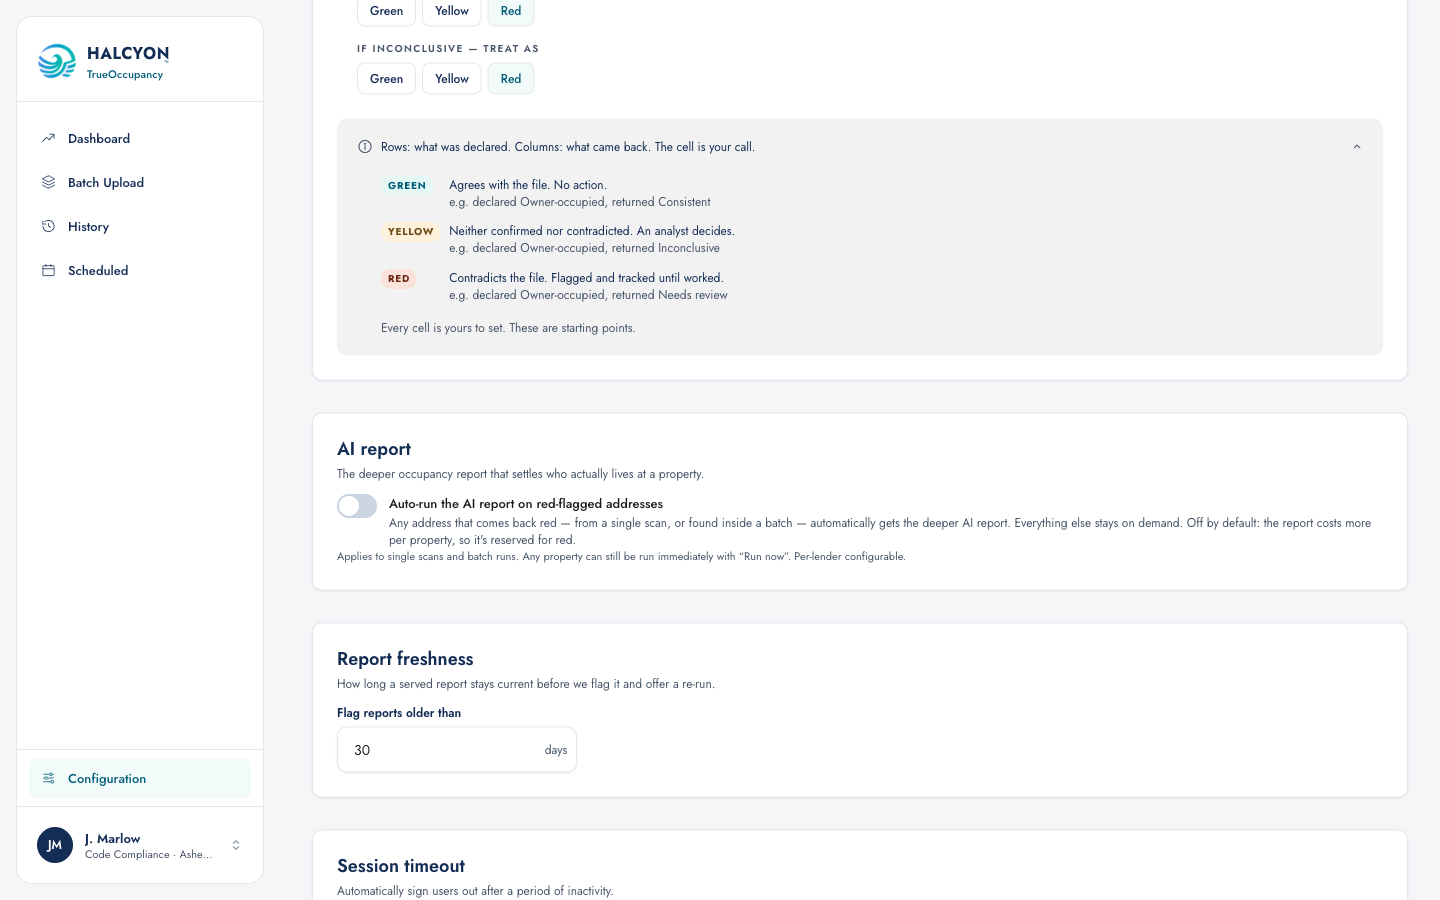
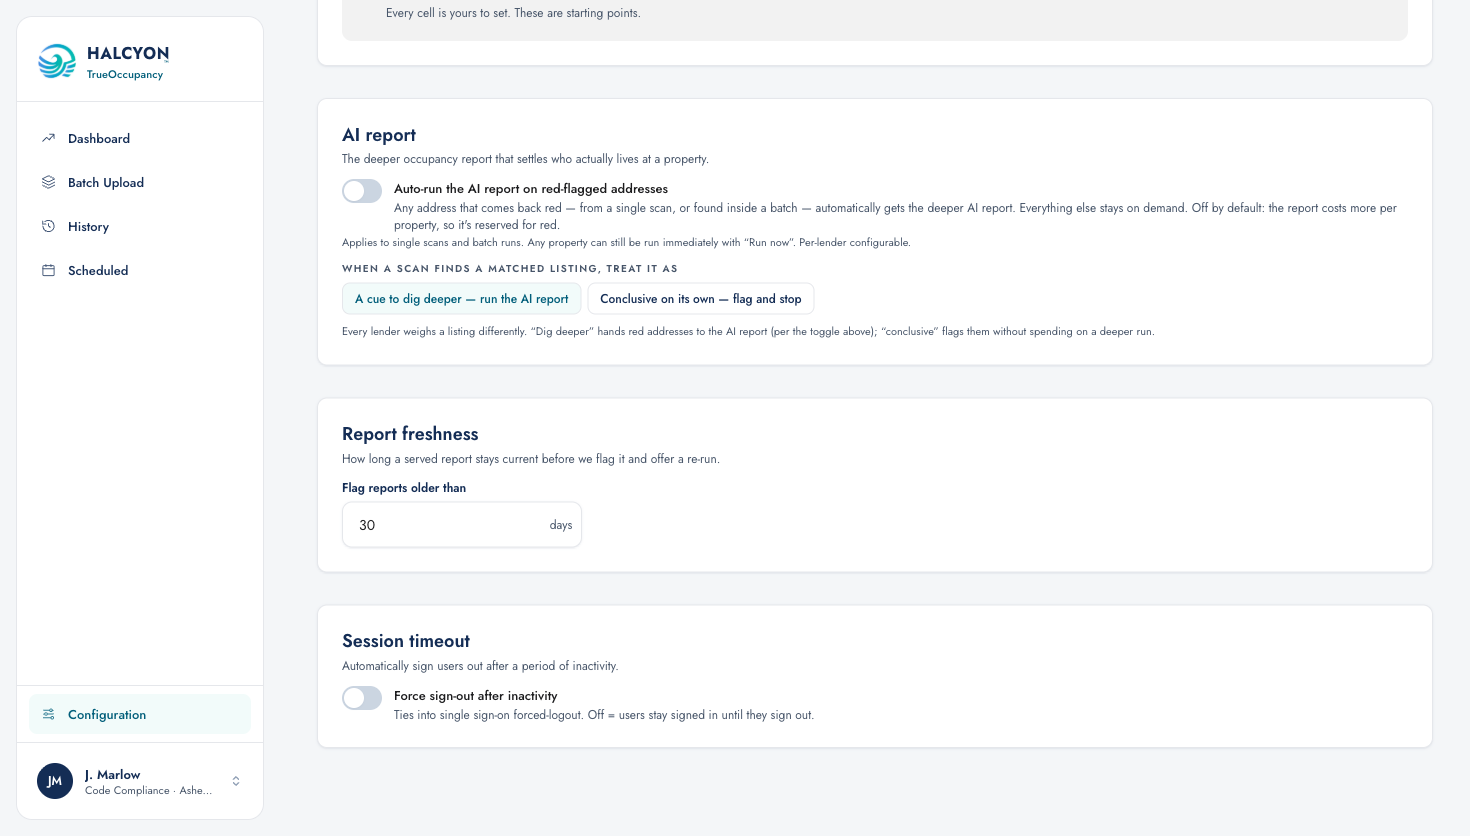
feat(prototype): AI-report trigger config, schedule-run AI status, list AI marker (Trello #45, #49, #50)
- ScanConfigScreen: per-lender "found listing → dig deeper vs conclusive"
  ChipRow under the AI-report toggle (#45)
- ScheduleDetailScreen: "AI report" column on run rows — Done/Failed/Running
  pills, nothing when a run never triggered AI (#49)
- HomeScreen + HistoryScreen: quiet "AI" Pill beside the verdict/status pill
  on rows whose latest run has a stored report; informational only (#50)
- AppState seeds: aiStatus on the automation batch runs, hasAIReport on two
  singles + one batch, so all three states are demonstrable

diff --git a/src/state/AppState.tsx b/src/state/AppState.tsx
@@ -405,7 +405,7 @@ const SEED_BATCH_LENDER_ROWS: LiveBatchRow[] = Array.from({ length: 42 }, (_, i)
 });
 
 const SEED_HISTORY: HistoryEntry[] = [
-  { id: 'h01', kind: 'single', address: '1428 Maplewood Drive, Asheville, NC 28804',  scenario: 'high',   platforms: 3, scannedAt: seedTime('8min'),  reference: 'LOAN-2026-0042', intent: 'owner-occupied' },
+  { id: 'h01', kind: 'single', address: '1428 Maplewood Drive, Asheville, NC 28804',  scenario: 'high',   platforms: 3, scannedAt: seedTime('8min'),  reference: 'LOAN-2026-0042', intent: 'owner-occupied', hasAIReport: true },
   // Prior re-scans of the SAME two addresses. These do NOT show as extra rows in
   // History (it dedups to the latest); they populate the "Run history" section
   // on the property's detail view — demonstrating the collapse. Mixed triggers
@@ -420,10 +420,10 @@ const SEED_HISTORY: HistoryEntry[] = [
   // the danger flag wherever they appear outside the Red-addresses tab.
   { id: 'hr1', kind: 'single', address: '412 Cumberland Ave, Asheville, NC 28801',    scenario: 'high',   platforms: 4, scannedAt: seedTime('1h'),    reference: 'LOAN-2026-0071', intent: 'owner-occupied' },
   { id: 'hr1b', kind: 'single', address: '412 Cumberland Ave, Asheville, NC 28801',   scenario: 'medium', platforms: 3, scannedAt: seedTime('60d'),   reference: 'LOAN-2026-0071', intent: 'owner-occupied' },
-  { id: 'hr2', kind: 'single', address: '7 Beaucatcher Rd, Asheville, NC 28805',      scenario: 'high',   platforms: 3, scannedAt: seedTime('6h'),    reference: 'LOAN-2026-0058', intent: 'rental' },
+  { id: 'hr2', kind: 'single', address: '7 Beaucatcher Rd, Asheville, NC 28805',      scenario: 'high',   platforms: 3, scannedAt: seedTime('6h'),    reference: 'LOAN-2026-0058', intent: 'rental', hasAIReport: true },
   { id: 'hr3', kind: 'single', address: '153 Merrimon Ave, Asheville, NC 28804',      scenario: 'high',   platforms: 2, scannedAt: seedTime('2d'), intent: 'owner-occupied' },
   { id: 'hb0', kind: 'batch',  filename: 'asheville-q2-2026.csv', total: 6,  flagged: 0, warn: 0, clean: 0, failed: 6, status: 'failed',   scannedAt: seedTime('47d'), rows: SEED_BATCH_FAILED_ROWS },
-  { id: 'hb1', kind: 'batch',  filename: 'asheville-q1-2026.csv', total: 24, flagged: 6, warn: 6, clean: 12, failed: 0, status: 'complete', scannedAt: seedTime('2h'), rows: SEED_BATCH_Q1_ROWS, title: 'Asheville Spring Sweep', description: 'Quarterly compliance scan for the spring 2026 lender portfolio.', defaultIntent: 'owner-occupied', trigger: 'automation' },
+  { id: 'hb1', kind: 'batch',  filename: 'asheville-q1-2026.csv', total: 24, flagged: 6, warn: 6, clean: 12, failed: 0, status: 'complete', scannedAt: seedTime('2h'), rows: SEED_BATCH_Q1_ROWS, title: 'Asheville Spring Sweep', description: 'Quarterly compliance scan for the spring 2026 lender portfolio.', defaultIntent: 'owner-occupied', trigger: 'automation', aiStatus: 'done', hasAIReport: true },
   // A prior run of the SAME CSV — collapses in the History tab (one row), and
   // surfaces in the batch's "Run history" section on its detail view. This is
   // the original upload (manual); everything after it is the automation.
@@ -453,7 +453,7 @@ const SEED_HISTORY: HistoryEntry[] = [
   // these ran unattended, so they carry trigger: 'automation'.
   { id: 'hr01a', kind: 'single', address: '1428 Maplewood Drive, Asheville, NC 28804', scenario: 'high',   platforms: 3, scannedAt: seedTime('6mo'), trigger: 'automation' },
   { id: 'hr01b', kind: 'single', address: '1428 Maplewood Drive, Asheville, NC 28804', scenario: 'medium', platforms: 2, scannedAt: seedTime('1y'),  trigger: 'automation' },
-  { id: 'hr02a', kind: 'batch',  filename: 'asheville-q4-2025.csv', total: 22, flagged: 4, warn: 5, clean: 13, failed: 0, status: 'complete', scannedAt: seedTime('3mo'), rows: SEED_BATCH_Q1_ROWS.slice(0, 22), defaultIntent: 'owner-occupied', trigger: 'automation' },
+  { id: 'hr02a', kind: 'batch',  filename: 'asheville-q4-2025.csv', total: 22, flagged: 4, warn: 5, clean: 13, failed: 0, status: 'complete', scannedAt: seedTime('3mo'), rows: SEED_BATCH_Q1_ROWS.slice(0, 22), defaultIntent: 'owner-occupied', trigger: 'automation', aiStatus: 'failed' },
   { id: 'hr03a', kind: 'single', address: '67 Charlotte Hwy, Asheville, NC 28803',     scenario: 'high',   platforms: 2, scannedAt: seedTime('1y'),  trigger: 'automation' },
   { id: 'hr04a', kind: 'single', address: '145 Westchester Dr, Asheville, NC 28803',   scenario: 'medium', platforms: 1, scannedAt: seedTime('4mo'), trigger: 'automation' },
 ];

diff --git a/src/pages/ScanConfigScreen.tsx b/src/pages/ScanConfigScreen.tsx
@@ -301,6 +301,9 @@ function ScanConfigScreen({
   // AI report — auto-run on red-flagged addresses. Opt-in (off by default)
   // because the deeper report costs more per property, so it's reserved for red.
   const [aiOnRed, setAiOnRed] = React.useState(false);
+  // Per-lender trigger (Trello #45): what a found listing means. "Every
+  // mortgage lender is a unique and beautiful snowflake" — don't hardcode.
+  const [listingMeans, setListingMeans] = React.useState<'dig-deeper' | 'stop'>('dig-deeper');
   // Session timeout — a toggle plus, when on, the idle window as a number + unit.
   const [timeoutOn, setTimeoutOn] = React.useState(seed.sessionTimeout?.enabled ?? false);
   const [timeoutValue, setTimeoutValue] = React.useState(seed.sessionTimeout?.value ?? 30);
@@ -536,6 +539,23 @@ function ScanConfigScreen({
         <p className="font-sans text-micro text-ink-3 leading-relaxed m-0">
           Applies to single scans and batch runs. Any property can still be run immediately with “Run now”. Per-lender configurable.
         </p>
+
+        {/* Per-lender trigger (Trello #45): whether a found listing is treated
+            as conclusive on its own, or as the cue to investigate deeper. */}
+        <div className="mt-stack-md">
+          <ChipRow
+            label="When a scan finds a matched listing, treat it as"
+            value={listingMeans}
+            onChange={(v: string) => setListingMeans(v as 'dig-deeper' | 'stop')}
+            options={[
+              { value: 'dig-deeper', label: 'A cue to dig deeper — run the AI report' },
+              { value: 'stop', label: 'Conclusive on its own — flag and stop' },
+            ]}
+          />
+          <p className="font-sans text-micro text-ink-3 leading-relaxed m-0 mt-stack-tight">
+            Every lender weighs a listing differently. “Dig deeper” hands red addresses to the AI report (per the toggle above); “conclusive” flags them without spending on a deeper run.
+          </p>
+        </div>
       </ConfigSection>
 
       {/* ---- 4. Recurring scans — REMOVED ----

diff --git a/src/pages/HistoryScreen.tsx b/src/pages/HistoryScreen.tsx
@@ -445,7 +445,18 @@ const HISTORY_SINGLE_COLUMNS: any[] = [
     cell: (r: any) => {
       const risk = SCENARIOS[r.scenario].risk;
       const m = occMatchForRisk(r.intent, risk);
-      return m ? <Pill variant={m.tone as any}>{m.label}</Pill> : <span className="text-ink-4">—</span>;
+      return (
+        <span className="inline-flex items-center gap-1.5">
+          {m ? <Pill variant={m.tone as any}>{m.label}</Pill> : <span className="text-ink-4">—</span>}
+          {/* Quiet "we already investigated this" marker (Trello #50) —
+              informational only, never changes verdict, tone or counts. */}
+          {r.hasAIReport && (
+            <span title={`AI report · run ${formatScannedDate(r.scannedAt)}`}>
+              <Pill size="sm">AI</Pill>
+            </span>
+          )}
+        </span>
+      );
     },
   },
   {
@@ -552,7 +563,16 @@ const HISTORY_BATCH_COLUMNS: any[] = [
     hideBelow: 'sm' as const,
     cell: (r: any) => {
       const status: 'complete' | 'partial' | 'failed' = r.status ?? 'complete';
-      return <Pill variant={BATCH_STATUS_VARIANT[status]}>{BATCH_STATUS_LABEL[status]}</Pill>;
+      return (
+        <span className="inline-flex items-center gap-1.5">
+          <Pill variant={BATCH_STATUS_VARIANT[status]}>{BATCH_STATUS_LABEL[status]}</Pill>
+          {r.hasAIReport && (
+            <span title={`AI reports · run ${formatScannedDate(r.scannedAt)}`}>
+              <Pill size="sm">AI</Pill>
+            </span>
+          )}
+        </span>
+      );
     },
   },
   {

diff --git a/src/pages/ScheduleDetailScreen.tsx b/src/pages/ScheduleDetailScreen.tsx
@@ -177,6 +177,23 @@ function ScheduleDetailScreen() {
       },
     },
     {
+      // AI-report status for runs that auto-triggered it (Trello #49) —
+      // same vocabulary as the batch results table. Runs that never
+      // triggered AI render nothing: absence stays legible, no dash noise.
+      key: 'ai',
+      label: 'AI report',
+      width: '110px',
+      hideBelow: 'sm' as const,
+      cell: (r: any) => {
+        if (!r.aiStatus) return null;
+        const variant =
+          r.aiStatus === 'done' ? 'clean' : r.aiStatus === 'failed' ? 'risk' : 'default';
+        const label =
+          r.aiStatus === 'done' ? 'Done' : r.aiStatus === 'failed' ? 'Failed' : r.aiStatus === 'running' ? 'Running' : 'Queued';
+        return <Pill variant={variant as any} size="sm">{label}</Pill>;
+      },
+    },
+    {
       key: 'detail',
       label: isBatch ? 'Flagged' : 'Platforms',
       width: '100px',

diff --git a/src/pages/HomeScreen.tsx b/src/pages/HomeScreen.tsx
@@ -551,7 +551,17 @@ const DASHBOARD_SINGLE_COLUMNS: any[] = [
     hideBelow: 'sm' as const,
     cell: (r: any) => {
       const m = occMatchForRisk(r.intent, SCENARIOS[r.scenario].risk);
-      return m ? <Pill variant={m.tone as any}>{m.label}</Pill> : <span className="text-ink-4">—</span>;
+      return (
+        <span className="inline-flex items-center gap-1.5">
+          {m ? <Pill variant={m.tone as any}>{m.label}</Pill> : <span className="text-ink-4">—</span>}
+          {/* "AI report available" marker (Trello #50) — informational only. */}
+          {r.hasAIReport && (
+            <span title="AI report available">
+              <Pill size="sm">AI</Pill>
+            </span>
+          )}
+        </span>
+      );
     },
   },
   {
